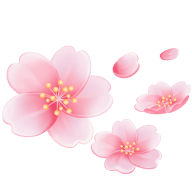
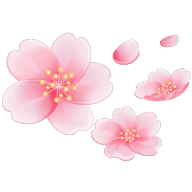
Add blessing popup, danmu wish feed, gift input restyle; recenter petal thumb
- Gửi lời chúc blessing bottom-sheet popup
- Floating danmu wish feed above the blessing button (latest 50, no dupes)
- Gift drawer name input matches blessing-popup style; no focus flash
- Remove gift price display
- Recenter petal.png content vertically; center all gift thumbs
- message-heart asset

Changed region(s): [[0.0, 0.1562, 1.0, 0.9062], [0.8125, 0.1562, 0.9375, 0.3125]]

diff --git a/public/index.html b/public/index.html
@@ -490,35 +490,30 @@ Anh còn, nghĩa là yêu vẫn còn.</p></div></div></div></div><div data-node-
  if(msg)msg.addEventListener('click',openWish);
 
  function openWish(){
-  var ov=document.createElement('div');
-  ov.style.cssText='position:fixed;inset:0;background:rgba(0,0,0,.55);z-index:4000;display:flex;align-items:center;justify-content:center';
-  ov.innerHTML='<div style="background:#fff;border-radius:14px;padding:18px;width:min(90vw,380px);max-height:84vh;overflow:auto;box-shadow:0 10px 40px rgba(0,0,0,.4);font-family:sans-serif">\
-<div style="font-size:16px;font-weight:600;margin-bottom:10px;color:#222">Gửi lời chúc</div>\
-<input data-name placeholder="Tên của bạn (tuỳ chọn)" style="width:100%;box-sizing:border-box;border:1px solid #ddd;border-radius:8px;padding:8px;font-size:14px;margin-bottom:8px"/>\
-<textarea data-msg rows="3" placeholder="Nhập lời chúc..." style="width:100%;box-sizing:border-box;border:1px solid #ddd;border-radius:8px;padding:8px;font-size:14px;resize:none"></textarea>\
-<div style="display:flex;gap:8px;justify-content:flex-end;margin-top:12px">\
-<button data-x style="border:none;background:#eee;color:#444;padding:8px 14px;border-radius:8px;cursor:pointer">Đóng</button>\
-<button data-ok style="border:none;background:#58c5fd;color:#fff;padding:8px 14px;border-radius:8px;cursor:pointer">Gửi</button></div>\
-<div data-list style="margin-top:14px;border-top:1px solid #eee;padding-top:10px"></div></div>';
+  var HEARTLOGO='assets/media/message-heart.9f3f7935.png';
+  var ov=document.createElement('div');ov.className='bl-ov';
+  ov.innerHTML='<div class="bl-win">'+
+    '<img class="bl-logo" src="'+HEARTLOGO+'" alt="">'+
+    '<span class="bl-close">×</span>'+
+    '<div class="bl-tit">Lời chúc</div>'+
+    '<div class="bl-cont">'+
+      '<div class="bl-info"><input class="bl-name" maxlength="25" type="text" placeholder="Tên của bạn"></div>'+
+      '<div class="bl-info"><textarea class="bl-mess" placeholder="Lời chúc của bạn"></textarea></div>'+
+    '</div>'+
+    '<button class="bl-send">Gửi Lời Chúc</button></div>';
   document.body.appendChild(ov);
-  var ta=ov.querySelector('[data-msg]');var nm=ov.querySelector('[data-name]');var list=ov.querySelector('[data-list]');
+  requestAnimationFrame(function(){ov.classList.add('in');});
+  var ta=ov.querySelector('.bl-mess');var nm=ov.querySelector('.bl-name');
   ta.focus();
-  function close(){ov.remove();}
-  ov.querySelector('[data-x]').onclick=close;
+  function close(){ov.classList.remove('in');setTimeout(function(){ov.remove();},250);}
+  ov.querySelector('.bl-close').onclick=close;
   ov.addEventListener('click',function(e){if(e.target===ov)close();});
-  function renderList(ws){
-   if(!ws.length){list.innerHTML='<div style="color:#999;font-size:13px">Chưa có lời chúc nào.</div>';return;}
-   list.innerHTML=ws.map(function(w){
-    var who=(w.name||'Ẩn danh');
-    return '<div style="margin-bottom:10px"><div style="font-weight:600;font-size:13px;color:#333">'+esc(who)+'</div><div style="font-size:13px;color:#555;white-space:pre-wrap">'+esc(w.message)+'</div></div>';
-   }).join('');
-  }
-  loadWishes().then(renderList);
-  ov.querySelector('[data-ok]').onclick=function(){
-   var t=ta.value.trim();if(!t)return;
-   postWish(nm.value.trim(),t).then(function(){
-    ta.value='';toast('Cảm ơn lời chúc của bạn!');burst(HAPPY,window.innerWidth/2,8,{size:34});
-    return loadWishes().then(renderList);
+  ov.querySelector('.bl-send').onclick=function(){
+   var t=(ta.value||'').trim();if(!t){ta.focus();return;}
+   var nmv=(nm.value||'').trim();
+   postWish(nmv,t).then(function(){
+    close();toast('Cảm ơn lời chúc của bạn!');burst(HAPPY,window.innerWidth/2,8,{size:34});
+    if(window.__blessing)window.__blessing(nmv,t);
    }).catch(function(){toast('Gửi thất bại, thử lại sau.');});
   };
  }
@@ -548,7 +543,7 @@ Anh còn, nghĩa là yêu vẫn còn.</p></div></div></div></div><div data-node-
 .gd-cell{border-radius:10px;padding:8px 4px 6px;text-align:center;cursor:pointer;border:1.5px solid transparent;transition:border-color .15s,background .15s;}
 .gd-cell:hover{background:#faf7f8;}
 .gd-cell.active{border-color:#ff6f91;background:#fff2f5;}
-.gd-cell img.gd-thumb{width:52px;height:52px;object-fit:contain;}
+.gd-cell img.gd-thumb{width:52px;height:52px;object-fit:contain;display:block;margin:0 auto;}
 .gd-cell .gd-title{font-size:12px;margin-top:2px;color:#333;line-height:1.2;min-height:26px;display:flex;align-items:center;justify-content:center;}
 .gd-cell .gd-price{font-size:12px;color:#f0a020;display:flex;align-items:center;justify-content:center;gap:3px;margin-top:1px;font-weight:600;}
 .gd-cell .gd-price img{width:14px;height:14px;}
@@ -557,8 +552,9 @@ Anh còn, nghĩa là yêu vẫn còn.</p></div></div></div></div><div data-node-
 .gd-tip{font-size:12px;color:#999;margin-top:8px;text-align:center;line-height:1.35;}
 /* name + send (give-username / gift_input / cinelove-btn) */
 .gd-row{margin-top:10px;display:flex;gap:10px;align-items:center;justify-content:space-between;width:100%;}
-.gd-row input{flex:1;min-width:0;background:#f3f3f5;border:1px solid #e3e3e8;border-radius:20px;padding:0 14px;height:40px;color:#333;font-size:14px;outline:none;}
+.gd-row input{flex:1;min-width:0;background:transparent;border:1px solid rgba(237,85,102,.4);border-radius:9px;padding:0 10px;height:50px;color:#333;font-size:16px;outline:none;font-family:inherit;box-sizing:border-box;}
 .gd-row input::placeholder{color:#aaa;}
+.gd-row input:focus{outline:none;box-shadow:none;border-color:rgba(237,85,102,.4);-webkit-tap-highlight-color:transparent;}
 .gd-send{height:40px;padding:0 24px;border:none;border-radius:20px;background:linear-gradient(90deg,#ff8aab,#ff5a7a);color:#fff;font-size:14px;font-weight:600;cursor:pointer;}
 .gd-send:active{filter:brightness(.95);}
 /* mini slide-in notice */
@@ -589,8 +585,7 @@ Anh còn, nghĩa là yêu vẫn còn.</p></div></div></div></div><div data-node-
  var cells=GIFTS.map(function(g,i){
   return '<div class="gd-cell'+(i===0?' active':'')+'" data-i="'+i+'">'+
     '<img class="gd-thumb" src="'+THUMB+g[0]+'.png" alt="'+g[1]+'">'+
-    '<div class="gd-title">'+g[1]+'</div>'+
-    '<div class="gd-price">'+g[2]+'<img src="'+COIN+'" alt="coin"></div></div>';
+    '<div class="gd-title">'+g[1]+'</div></div>';
  }).join('');
  ov.innerHTML='<div class="gd-mask"></div><div id="gd-sheet">'+
    '<div class="gd-head"><div class="gd-tab">Tặng Quà <img class="gd-arrow" src="'+ARROW+'"></div></div>'+
@@ -628,5 +623,69 @@ Anh còn, nghĩa là yêu vẫn còn.</p></div></div></div></div><div data-node-
   setTimeout(function(){s.classList.remove('in');setTimeout(function(){s.remove();},450);},2600);
  }
  function esc(x){return (x||'').replace(/[&<>"]/g,function(c){return {'&':'&amp;','<':'&lt;','>':'&gt;','"':'&quot;'}[c];});}
+})();
+</script><style id='blessing-css'>
+.bl-ov{position:fixed;inset:0;z-index:4600;background:rgba(0,0,0,0);transition:background .25s;}
+.bl-ov.in{background:rgba(0,0,0,.45);}
+.bl-win{position:absolute;left:50%;bottom:0;transform:translate(-50%,100%);transition:transform .3s cubic-bezier(.2,.7,.3,1);width:min(100vw,480px);min-height:20rem;background:#fff;border-radius:.5rem .5rem 0 0;box-sizing:border-box;padding:0 18px 22px;text-align:center;font-family:sans-serif;}
+.bl-ov.in .bl-win{transform:translate(-50%,0);}
+.bl-logo{position:absolute;width:140px;height:66px;top:-21px;left:50%;transform:translateX(-50%);object-fit:contain;}
+.bl-close{position:absolute;top:12px;right:16px;font-size:20px;line-height:1;color:#999;cursor:pointer;}
+.bl-tit{margin-top:57px;font-size:21px;font-weight:600;color:#333;}
+.bl-cont{text-align:left;margin-top:16px;}
+.bl-info{margin-bottom:10px;}
+.bl-name,.bl-mess{width:100%;box-sizing:border-box;color:#333;border:1px solid rgba(237,85,102,.4);border-radius:9px;font-size:16px;outline:none;background:transparent;font-family:inherit;}
+.bl-name{height:50px;padding:0 10px;}
+.bl-mess{min-height:96px;padding:10px;resize:none;}
+.bl-name:focus,.bl-mess:focus{outline:none;box-shadow:none;border-color:rgba(237,85,102,.4);-webkit-tap-highlight-color:transparent;}
+.bl-send{margin:25px auto 0;width:90%;height:46px;min-width:100px;display:flex;align-items:center;justify-content:center;gap:5px;background:#ed5566;color:#fff;border:none;border-radius:40px;font-size:1rem;cursor:pointer;transition:.3s;}
+.bl-send:active{filter:brightness(.95);}
+</style><style id='blessing-box-css'>
+#blessing-box{position:fixed;left:16px;bottom:58px;width:285px;max-width:72vw;height:180px;overflow:hidden;z-index:1000;pointer-events:none;user-select:none;-webkit-tap-highlight-color:transparent;}
+#blessing-box .blessing-message{position:absolute;left:0;bottom:0;font-size:11px;color:#fff;min-height:28px;line-height:14px;border-radius:7px;padding:2px 10px;display:flex;text-align:left;align-items:center;justify-content:center;background:rgba(225,117,117,.5);box-sizing:border-box;max-width:100%;will-change:transform,opacity;}
+#blessing-box .blessing-text{word-break:break-word;}
+#blessing-box .blessing-text strong{font-weight:600;}
+</style><script id='blessing-box-fx'>
+(function(){
+ var box=document.createElement('div');box.id='blessing-box';
+ document.body.appendChild(box);
+ function place(){
+  var btn=document.querySelector('.message-box-button');
+  if(!btn)return;
+  var r=btn.getBoundingClientRect();
+  if(!r.width){return;}
+  var pl=parseFloat(getComputedStyle(btn).paddingLeft)||0;
+  var x=r.left+pl;
+  box.style.left=Math.round(x)+'px';
+  box.style.bottom=Math.round(window.innerHeight-r.top+8)+'px';
+  box.style.width=Math.min(285,Math.round(window.innerWidth-x-8))+'px';
+ }
+ place();
+ window.addEventListener('resize',place);
+ [250,800,1600].forEach(function(d){setTimeout(place,d);});
+ function esc(s){return (s||'').replace(/[&<>"]/g,function(c){return {'&':'&amp;','<':'&lt;','>':'&gt;','"':'&quot;'}[c];});}
+ function show(name,msg){
+  var el=document.createElement('div');el.className='blessing-message';
+  el.innerHTML='<span class="blessing-text"><strong>'+esc(name||'Ẩn danh')+'</strong>: '+esc(msg)+'</span>';
+  box.appendChild(el);
+  var anim=el.animate([
+   {transform:'translateY(14px)',opacity:0},
+   {transform:'translateY(0px)',opacity:1,offset:0.12},
+   {transform:'translateY(-150px)',opacity:1,offset:0.82},
+   {transform:'translateY(-200px)',opacity:0}
+  ],{duration:5000,easing:'linear'});
+  anim.onfinish=function(){el.remove();};
+ }
+ window.__blessing=show;
+ function api(path){return fetch(path).then(function(r){return r.ok?r.json():Promise.reject(r);});}
+ api('/api/wishes?limit=50').then(function(d){
+  var ws=(d.wishes||[]).slice(0,50);
+  if(!ws.length)return;
+  var DUR=5000,GAP=300;
+  var SPAWN=Math.max(700,Math.ceil((DUR+GAP)/ws.length));
+  var idx=0;
+  function tick(){var w=ws[idx%ws.length];show(w.name,w.message);idx++;setTimeout(tick,SPAWN);}
+  tick();
+ }).catch(function(){});
 })();
 </script></body></html>
